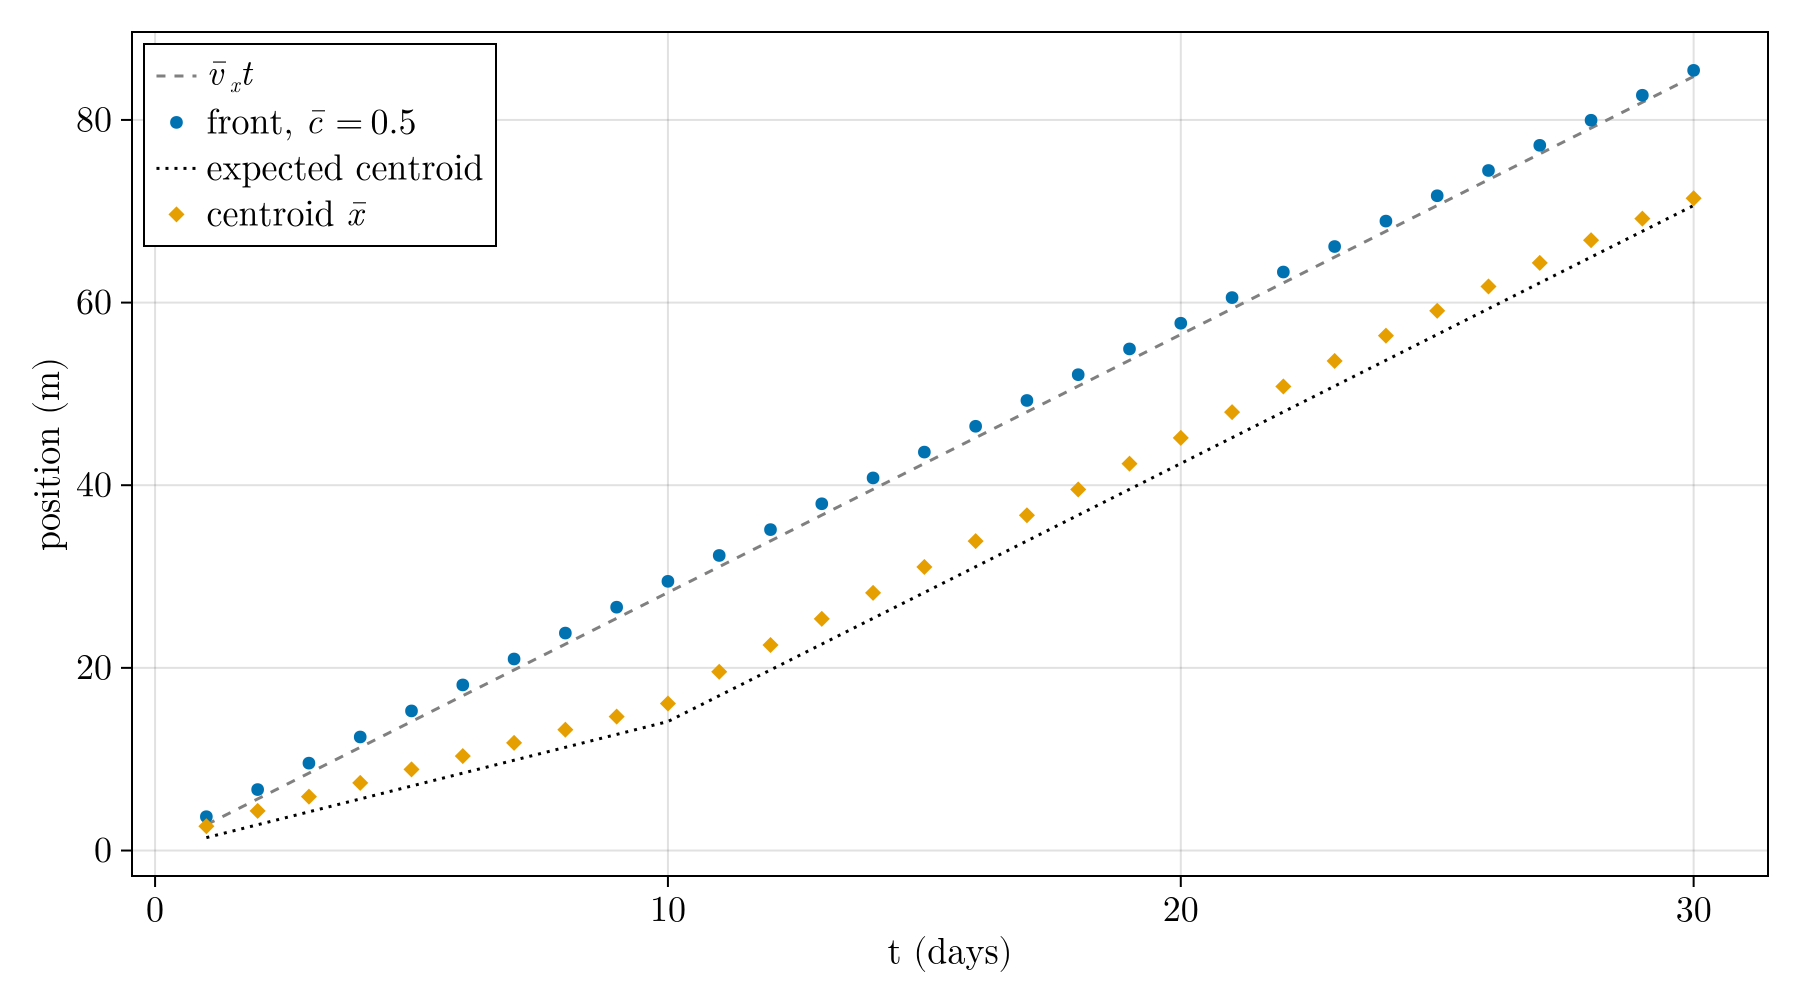
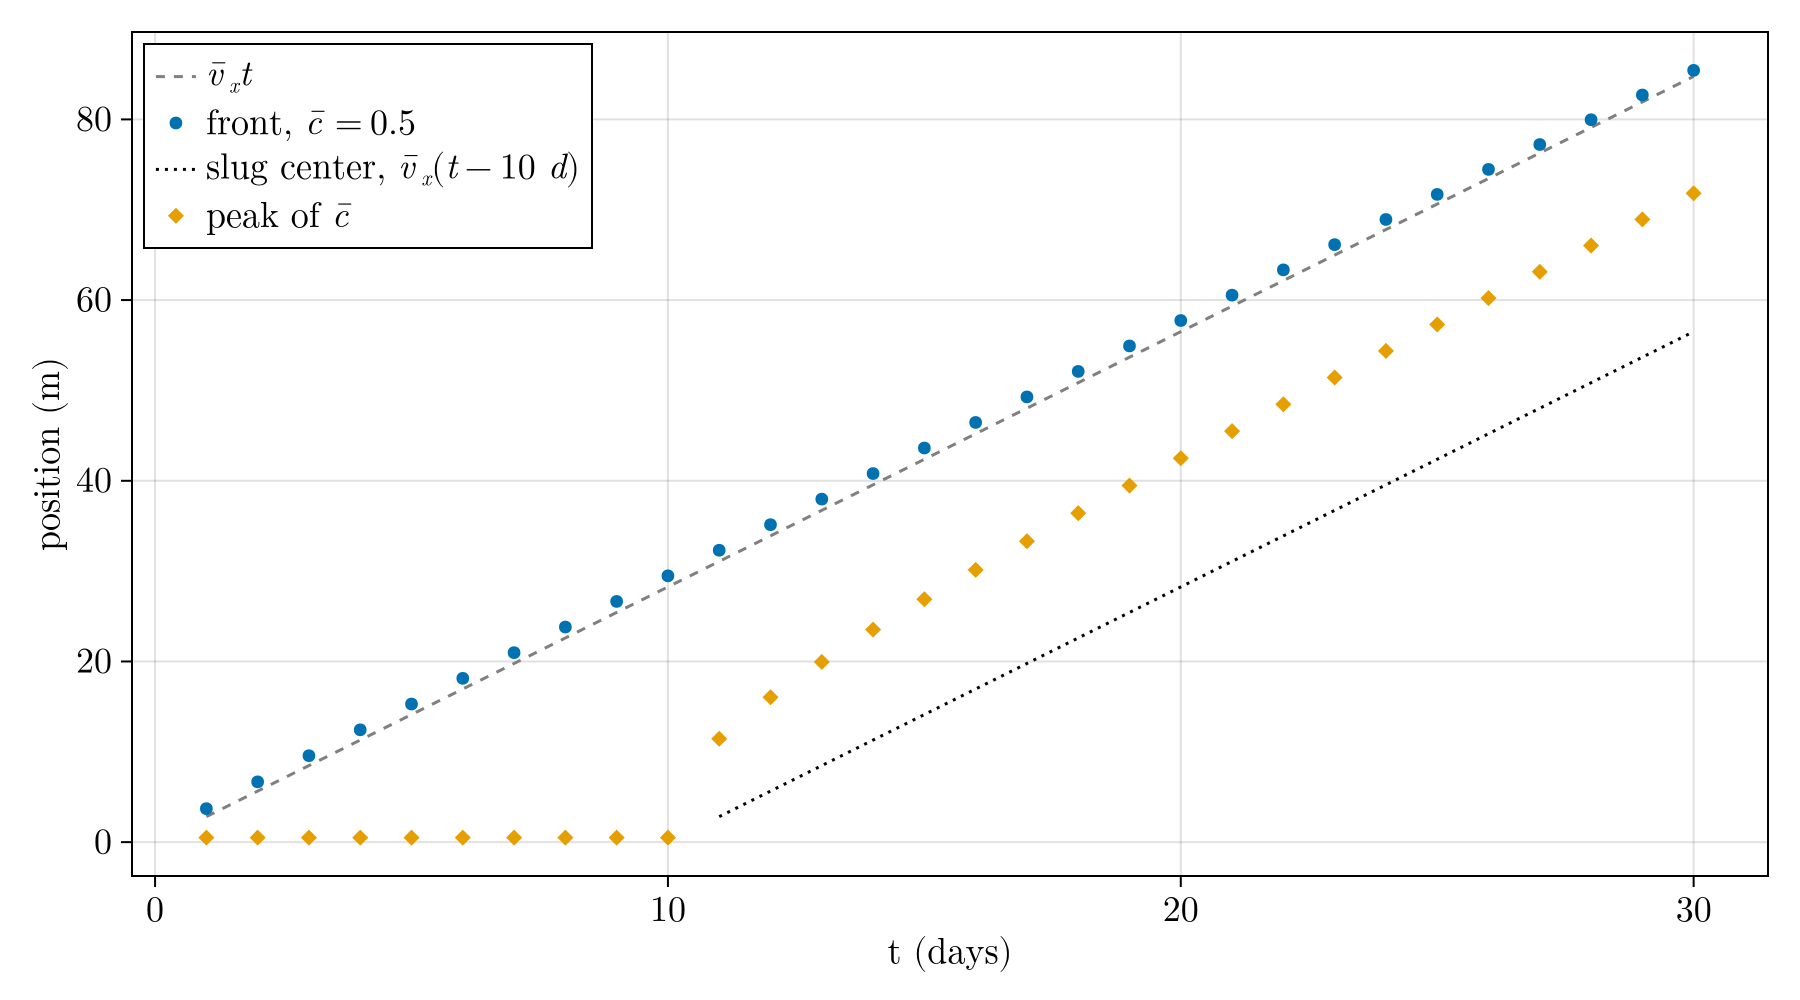
Finalize hw5

diff --git a/h5_writeup.md b/h5_writeup.md
@@ -14,71 +14,93 @@ Code source: [gh:vietbuiminh/hydro-modeling/](https://github.com/vietbuiminh/hyd
 > [hw5-p1.jl](hw5-p1.jl) (flow and transport solvers in [funcs/flow_transport_2d.jl](funcs/flow_transport_2d.jl))
 
 Given:
-- $h_L = 10\ m$, $h_R = 9\ m$ (Dirichlet), top and bottom no-flow,
-- $k = 10^{-10}\ m^2$ (homogeneous) $\implies K = \frac{\rho g k}{\mu} = 9.81\times10^{-4}\ m/s$,
-- $n_x = 100$, $n_y = 50 \implies \delta x = \delta y = 1\ m$,
+
+- $h_L = 10\ m$, $h_R = 9\ m$ (Dirichlet), no flow top and bottom boundaries,
+
+- $k = 10^{-10}\ m^2$ (homog.) ($\implies K = \frac{\rho g k}{\mu} = 9.81\times10^{-4}\ m/s$),
+
+- $n_x = 100$, $n_y = 50, \delta x = \delta y = 1\ m$,
+
+Assume:  
+
 - $\phi = 0.3$, $D_{diff} = 1.0\times10^{-9}\ m^2/s$, $\alpha = 1.0\ m$,
-- $c = 1$ on the left (inflow) boundary for $t \le 10$ days, $c = 0$ afterward; $\partial c/\partial x = 0$ at the right outlet; zero advective and dispersive flux at the top and bottom.
 
-*Flow.* The steady-state flow is solved with the same TPFA finite-volume scheme as HW4, and the Darcy velocities are kept on every cell face. Because the aquifer is homogeneous, the head drops linearly from 9.995 m (first cell) to 9.005 m (last cell), and the flow is purely in $x$ ($\max|u_y| \approx 10^{-17}\ m/s$, i.e. round-off):
+Initial concentration field:
 
-$$
-u_x = K\frac{h_L - h_R}{L_x} = 9.81\times10^{-4}\cdot\frac{1}{100} = 9.81\times10^{-6}\ m/s
-$$
+- $c = 1$ on the left (inflow) boundary for $t \le 10$ days, $c = 0$ afterward; $\partial c/\partial x = 0$ (concentration-gradient condition) at the right outlet; zero advective and dispersive flux at the top and bottom.
 
-*Transport.* The advective flux on each face is $u\,c$ with $c$ taken from the upwind cell (or $c_{in}$ on the left boundary). The dispersive flux is $\phi D_h \Delta c/\delta$ between the two cell centers, with $D_h$ on interior faces given by the harmonic mean of the two cells. On the inlet face the distance is half a cell. The concentration is advanced with forward Euler, $c^{n+1} = c^n - \frac{\delta t}{\phi\,\delta x\,\delta y}\sum(\text{net outflow})$. The last step before each output time is shortened so the output lands exactly on that time.
+Inside the `hw5-p1.jl`
 
-The pore velocity is uniform, so $D_h = D_{diff} + \alpha|\bar v| = 3.27\times10^{-5}\ m^2/s$ everywhere, and
+```jl
+# physical properties
+ρ = 1000 # water density [kg/m^3]
+μ = 1.0e-3 # dynamic viscosity [Pa s]
+g = 9.81 # gravitational acceleration [m/s^2]
+k = 1.0e-10 # intrinsic permeability [m^2]
 
-$$
-\delta t_{adv} = \frac{0.1\cdot 1}{3.27\times10^{-5}} = 3058\ s, \qquad
-\delta t_{disp} = \frac{0.1}{3.27\times10^{-5}\,(1 + 1)} = 1529\ s
-$$
+ϕ = 0.3 # porosity [-]
+D_diff = 1.0e-9 # molecular diffusion coeff. [m^2/s]
+α = 1.0 # isotropic dispersivity [m]
 
-so dispersion controls the time step: $\delta t = 1529\ s \approx 25$ minutes, which gives about 1700 steps over 30 days.
+# model domain
+Lx = 100 # domain length in x direction [m]
+Ly = 50 # domain length in y direction [m]
+nx = 100 # number of cells in x direction
+ny = 50 # number of cells in y direction
+dx = Lx / nx # = 1 m
+dy = Ly / ny # = 1 m
 
-![Figure 1: Concentration fields at t = 5, 10, 15, 20, 25, and 30 days (homogeneous k)](figures/hw5-p1-concentration.png)
+# boundary conditions
+hL = 10 # left boundary head [m] (Dirichlet)
+hR = 9 # right boundary head [m] (Dirichlet)
+day = 24 * 60 * 60 # [s]
+c_in(t) = t < 10 * day ? 1.0 : 0.0 # inject c = 1 for the first 10 days
+```
+
+The flow solver is the one I wrote for HW4 Problem 3 in [Neumann2D-discretize.jl](Neumann2D-discretize.jl). There, the whole solve sat inside a `for σ in σ_ls` loop over the standard deviations. For this homework I turned that core code into functions in [funcs/flow_transport_2d.jl](funcs/flow_transport_2d.jl). `solve_flow(Kmat, dx, dy, hL, hR)` builds the transmissibility matrix, solves for the head, and returns the Darcy velocities on every cell face. `solve_transport(flow, dx, dy, ϕ, D_diff, α, c_in, tsave)` takes those face velocities and steps the concentration field through time, saving it at the requested times. Problem 1 with the homogeneous $K$.
+
+- Plot two-dimensional concentration fields at t = 5, 10, 15, 20, 25, and 30 days using 
+the same color scale, 0<=c<=1 
+
+![Figure 1: Concentration fields at t = 5, 10, 15, 20, 25, and 30 days (homogeneous k), where color bar is same colorscale 0<=c<=1](figures/hw5-p1-concentration.png)
+
+- Calculate  and  plot  the  transverse-averaged  concentration at the same times. 
 
 ![Figure 2: Transverse-averaged concentration $\bar{c}(x,t)$ at the same times](figures/hw5-p1-cbar.png)
+
+- Compare  the  simulated  plume  travel  speed  with  the  expected  mean  pore  velocity
 
 *Expected mean pore velocity.* From the total inflow at the left boundary,
 
 $$
-\bar u_x = \frac{1}{L_y}\int_0^{L_y} u_x(0,y)\,dy = 9.81\times10^{-6}\ m/s, \qquad
+\bar u_x = \frac{1}{L_y}\int_0^{L_y} u_x(0,y)\,dy = 9.81\times10^{-6}\ m/s
+$$
+
+$$
 \bar v_x = \frac{\bar u_x}{\phi} = 3.27\times10^{-5}\ m/s = 2.825\ m/day
 $$
 
-To measure how fast the simulated plume moves, I tracked two positions from $\bar c(x,t)$ every day (Figure 3):
+As seen in figure 2, to measure how fast the simulated plume moves, I can track the top of the curve and how the max position shift every day (Figure 3):
+
 - the leading front, where $\bar c = 0.5$, which should sit at $\bar v_x t$;
-- the plume centroid $\bar x = \sum x_i \bar c_i / \sum \bar c_i$. For a 10-day slug this should be $\bar v_x t/2$ during injection and $\bar v_x (t - 5\ \text{days})$ afterward (the middle of the slug).
 
-![Figure 3: Simulated front and centroid positions compared with the mean pore velocity](figures/hw5-p1-plume-position.png)
+- the peak (maximum) of $\bar c$. During injection the peak stays at the inlet, where $\bar c = 1$. After injection stops, the peak should move with the center of the 10day slug, $\bar v_x (t - 10\ \text{days})$.
 
-| t (days) | front, $\bar c = 0.5$ (m) | $\bar v_x t$ (m) | centroid $\bar x$ (m) | expected $\bar x$ (m) | peak $\bar c$ |
-|---|---|---|---|---|---|
-| 5  | 15.29 | 14.13 | 8.88  | 7.06  | 0.999 |
-| 10 | 29.48 | 28.25 | 16.10 | 14.13 | 1.000 |
-| 15 | 43.63 | 42.38 | 31.05 | 28.25 | 0.907 |
-| 20 | 57.74 | 56.51 | 45.18 | 42.38 | 0.815 |
-| 25 | 71.70 | 70.63 | 59.10 | 56.51 | 0.742 |
-| 30 | 85.43 | 84.76 | 71.42 | 70.63 | 0.684 |
+![Figure 3: Simulated front and peak positions compared with the mean pore velocity](figures/hw5-p1-plume-position.png)
 
-Simulated plume speeds:
-- front, days 5–20: $2.830\ m/day$
-- centroid, days 12–22 (after injection stops and before the plume reaches the outlet): $2.831\ m/day$
+Since we can see the track lines and scatter dot from both paralell after passing day 10th, the speed the simulated can be averaged to be similar with the expected mean pore velocity $2.825\ m/day$
 
-Both are within 0.2% of $\bar v_x = 2.825\ m/day$.
+- Does the plume remain uniform in the transverse direction?
 
-The front stays about 1.2 m ahead of $\bar v_x t$ and the centroid about 2.8 m ahead of its expected position. These are constant offsets, not a difference in speed, and they come from dispersion at the inlet. During injection, solute also enters by dispersion through the fixed-concentration ($c = 1$) inlet, on top of the advective flux $u c_{in}$. By day 10 the solute mass in the domain is 4.7% more than the advective input $\bar u_x L_y \cdot 10\ \text{days}$. After injection stops, some solute at the tail disperses back out through the inlet, and the mass returns to 1.000 of the advective input. Both effects push the solute mass forward. After about day 23 the mass in the domain starts to drop as the leading edge leaves through the outlet (0.944 of the input remains at day 30). This also pulls the centroid back toward its expected value at late times.
+Yes because every column of Figure 1 has a single concentration. With homogeneous $k$ and no-flow top and bottom boundaries, $u_y = 0$ everywhere and there is no transverse concentration gradient, so the problem is linear in $x$.
 
-*Questions*
+- Is its movement consistent with the calculated mean pore velocity $\bar v_x$?
 
-- **Does the plume remain uniform in the transverse direction?** Yes. Every column of Figure 1 has a single concentration; the largest difference between any cell and its column average, $\max|c - \bar c|$, is $1.7\times10^{-12}$ (round-off). With homogeneous $k$ and no-flow top and bottom boundaries, $u_y = 0$ everywhere and there is no transverse concentration gradient, so the problem is effectively 1-D in $x$.
+Yes, and the front moves at $2.83\ m/day$, matching $\bar v_x = 2.825\ m/day$ (Figure 3). The plume spreads out as it moves which is dispersivity (Figure 2 as seen in concentration).
 
-- **Is its movement consistent with the calculated mean pore velocity $\bar v_x$?** Yes. The front and the centroid both move at $2.83\ m/day$, matching $\bar v_x = 2.825\ m/day$ (Figure 3). The plume spreads as it moves: the peak $\bar c$ falls from 1.0 to 0.68 by day 30 (Figure 2). The physical dispersivity ($\alpha = 1\ m$) causes most of this spreading. The first-order upwind scheme adds some numerical dispersion on top; I estimate this at roughly $\delta x/2 \approx 0.5\ m$ of extra dispersivity.
+- Does the numerical solution remain within $0 \le c \le 1$? 
 
-- **Does the numerical solution remain within $0 \le c \le 1$?** Yes. Over all saved times $c_{min} = 0$ (no negative values) and $c_{max} = 0.99996$. The scheme cannot overshoot here: with first-order upwinding and a time step well inside both limits (Courant number $\bar v\,\delta t/\delta x = 0.05$, and $D_h\,\delta t/\delta x^2 = 0.05$ in each direction), each new concentration is a weighted average of the old values in the cell and its neighbours, with non-negative weights.
-
+Yes. Over all saved times $c_{min} = 0$ (no negative values) and $c_{max} = 0.99996$.
 
 **Problem 2**
 
@@ -90,63 +112,56 @@ $$
 Y = \frac{\log_{10}k + 10}{1}, \qquad \log_{10}k = -10 + \sigma_{\log_{10}k}\,Y, \qquad \sigma_{\log_{10}k} = 0.1,\ 0.5,\ 1,\ 2
 $$
 
-The same $Y$ is used for all four runs, so only the contrast changes (Figure 4). Everything else is the same as Problem 1: Dirichlet heads $h_L = 10\ m$ and $h_R = 9\ m$, $c = 1$ injected at the left boundary for 10 days, zero-gradient outlet, and no-flux top and bottom. Because $D_h = D_{diff} + \alpha|\bar v|$, the time step shrinks as the fastest cell gets faster.
+- Plot two-dimensional concentration fields at t = 5, 10, 15, 20, 25, and 30 days using the same color scale, 
 
-| $\sigma_{\log_{10}k}$ | $K$ range (m/s) | $\bar v_x$ (m/day) | $\max\lvert\bar v\rvert$ (m/day) | $\delta t$ (s) |
-|---|---|---|---|---|
-| 0.1 | $4.2\times10^{-4}$ – $1.8\times10^{-3}$ | 2.84 | 4.40 | 983 |
-| 0.5 | $1.4\times10^{-5}$ – $2.2\times10^{-2}$ | 3.10 | 16.6 | 260 |
-| 1   | $2.1\times10^{-7}$ – $5.1\times10^{-1}$ | 3.30 | 36.5 | 118 |
-| 2   | $4.7\times10^{-11}$ – $2.6\times10^{2}$ | 3.09 | 65.9 | 66 |
+![Figure 4: Concentration fields, $\sigma_{\log_{10}k} = 0.1, 0.5, 1, 2$](figures/hw5-p2-concentration.png)
 
-Here $\bar v_x = \bar u_x/\phi$ is computed from the total inflow at the left boundary, as in Problem 1. The mean of $\log_{10}k$ is the same in all four fields, and the mean pore velocity changes by only about 15%, even though $K$ spans 13 orders of magnitude at $\sigma_{\log_{10}k} = 2$.
+- Calculate and plot the transverse-averaged concentration
 
-![Figure 4: $\log_{10}k$ fields for the four heterogeneity levels (same color scale)](figures/hw5-p2-log10k.png)
+![Figure 5: $\log_{10}k$ fields on the same color scale (top) and transverse-averaged concentration $\bar{c}(x,t)$ at t = 5–30 days (bottom)](figures/hw5-p2-log10k-cbar.png)
 
-![Figure 5: Concentration fields, $\sigma_{\log_{10}k} = 0.1$](figures/hw5-p2-concentration-sigma0.1.png)
+- At every saved time, calculate the longitudinal centroid ($\bar{x}$) and the longitudinal variance ($\sigma_{x}^2$)
 
-![Figure 6: Concentration fields, $\sigma_{\log_{10}k} = 0.5$](figures/hw5-p2-concentration-sigma0.5.png)
+```jl
+centroid(c) = sum(X .* c) / sum(c)
+variance(c) = sqrt(sum((X .- centroid(c)) .^ 2 .* c) / sum(c))
+```
 
-![Figure 7: Concentration fields, $\sigma_{\log_{10}k} = 1$](figures/hw5-p2-concentration-sigma1.0.png)
+- How does increasing permeability heterogeneity change the geometry of the solute plume?
 
-![Figure 8: Concentration fields, $\sigma_{\log_{10}k} = 2$](figures/hw5-p2-concentration-sigma2.0.png)
+The more heterogeneous the field, the less uniform the plume as seen in Figure 5.
 
-![Figure 9: Transverse-averaged concentration $\bar{c}(x,t)$ for the four heterogeneity levels](figures/hw5-p2-cbar.png)
+The $\bar c$ profiles (Figure 4, bottom row) go from a smooth bell shape at 0.1 to a long tail with several peaks at 1 and 2.
 
-*Moments.* $\bar x$ and $\sigma_x$ are computed from $\bar c(x,t)$ with the formulas in the assignment, every day from day 1 to day 30. The table also lists the solute mass still in the domain, divided by the mass that entered with the flow ($\bar u_x L_y \cdot 10$ days). Once part of the plume has left through the outlet, $\bar x$ and $\sigma_x$ describe only what remains.
+- Does the plume centroid $\bar x$ move faster or slower as $\sigma_{\log_{10}k}$ increases?
 
-| t (days) | $\bar x$ (m) 0.1 / 0.5 / 1 / 2 | $\sigma_x$ (m) 0.1 / 0.5 / 1 / 2 | mass in domain 0.1 / 0.5 / 1 / 2 |
-|---|---|---|---|
-| 5  | 9.2 / 13.5 / 19.3 / 28.2  | 6.5 / 10.3 / 15.0 / 21.1  | 0.55 / 0.54 / 0.53 / 0.52 |
-| 10 | 16.5 / 23.8 / 33.0 / 42.7 | 11.0 / 17.3 / 23.3 / 27.1 | 1.05 / 1.04 / 1.03 / 0.98 |
-| 15 | 31.7 / 43.2 / 53.6 / 60.8 | 12.8 / 20.7 / 23.8 / 24.7 | 1.00 / 1.00 / 0.95 / 0.77 |
-| 20 | 45.9 / 57.0 / 61.9 / 63.1 | 14.8 / 23.1 / 24.5 / 26.2 | 1.00 / 0.97 / 0.79 / 0.49 |
-| 25 | 59.7 / 65.1 / 64.1 / 61.3 | 16.0 / 23.8 / 24.7 / 27.3 | 0.99 / 0.84 / 0.58 / 0.34 |
-| 30 | 71.3 / 68.3 / 64.4 / 59.6 | 15.5 / 24.2 / 24.8 / 27.5 | 0.93 / 0.64 / 0.42 / 0.26 |
+Faster. In Figure 6 (left), the curve gets steeper as $\sigma_{\log_{10}k}$ increases: $\bar x$ reaches 50 m after about 21 days for 0.1, but after only about 11 days for 2. 
 
-![Figure 10: Centroid $\bar x$ through time (left) and longitudinal spread $\sigma_x$ against the centroid (right); the dashed line marks $\bar x = 50\ m$](figures/hw5-p2-moments.png)
+In Figure 5, most of the solute rides the fast high-$k$ channels.
 
-$\sigma_x$ at $\bar x = 50\ m$, interpolated linearly between the two saved days on either side:
+At late times the curves for 1 and 2 flatten out, and the one for 2 even drops. The plume isn't slowing down. Its fast front has already left through the outlet (Figure 5, bottom rows), so $\bar x$ only measures the slow solute left behind.
 
-| $\sigma_{\log_{10}k}$ | time to reach $\bar x = 50\ m$ (days) | $\sigma_x$ at $\bar x = 50\ m$ (m) | mass still in domain |
-|---|---|---|---|
-| 0.1 | 21.5 | 15.3 | 0.999 |
-| 0.5 | 17.2 | 22.0 | 0.994 |
-| 1   | 13.8 | 23.6 | 0.975 |
-| 2   | 11.3 | 25.6 | 0.931 |
+- Plot $\sigma_x$ as a function of $\bar x$, and the comparison at $\bar x = 50\ m$.
 
-*Questions*
 
-- **How does increasing permeability heterogeneity change the geometry of the solute plume?** At $\sigma_{\log_{10}k} = 0.1$ (Figure 5) the plume still looks like the homogeneous case in Problem 1. It is a single band across the whole width, and its front is only slightly tilted and wavy. At $\sigma_{\log_{10}k} = 0.5$ (Figure 6) the front becomes fingered. Solute moves ahead along the higher-$k$ lower half of the domain ($y \approx 25$–$50\ m$), and the low-$k$ zone near the top-left inlet lags behind. At $\sigma_{\log_{10}k} = 1$ (Figure 7) the plume breaks into a few channels, with low-$k$ zones that the solute flows around and that stay nearly clean. At $\sigma_{\log_{10}k} = 2$ (Figure 8) almost all the solute travels in one high-$k$ channel. It enters at $y \approx 30$–$50\ m$, passes through the high-$k$ zone near $(60, 30)$ and leaves at the upper right. By day 10 it already reaches the outlet while most of the domain has never seen solute. The $\bar c$ profiles (Figure 9) show the same change. They go from smooth bell shapes at 0.1 to a long tail and several peaks at 1 and 2, with solute spread over the whole length of the domain.
+![Figure 6: Centroid $\bar x$ through time (left) and longitudinal spread $\sigma_x$ against the centroid (right); the dashed line marks $\bar x = 50\ m$](figures/hw5-p2-moments.png)
 
-- **Does the plume centroid $\bar x$ move faster or slower as $\sigma_{\log_{10}k}$ increases?** Faster, at least while the plume is still inside the domain. At day 5, $\bar x$ = 9.2, 13.5, 19.3 and 28.2 m, and the time to reach $\bar x = 50\ m$ falls from 21.5 to 11.3 days. This happens even though $\bar v_x$ barely changes (2.8–3.3 m/day). The reason is that solute is injected by flux, so most of it enters where the inflow is fastest. The flux-weighted inlet pore velocity $\sum u_L^2 / (\phi \sum u_L)$ rises from 3.0 to 6.5, 14.2 and 29.8 m/day, and most of the solute mass rides the fast channels. At late times $\bar x$ stops growing for $\sigma_{\log_{10}k} \ge 1$, and even moves back for 2 (Figure 10, left). This is not the plume slowing down. The leading part has left through the outlet (only 26% of the mass remains at day 30 for $\sigma_{\log_{10}k} = 2$), so the centroid only describes the slow material left behind.
+$\sigma_x$ at $\bar x = 50\ m$, interpolated linearly between the two saved days on either side.
 
-- **$\sigma_x$ as a function of $\bar x$, and the comparison at $\bar x = 50\ m$.** See Figure 10 (right) and the table above: $\sigma_x(\bar x = 50\ m)$ = 15.3, 22.0, 23.6 and 25.6 m. Up to $\bar x \approx 10$–$15\ m$ all four curves follow nearly the same line. During injection the plume is still attached to the inlet, so $\sigma_x$ mostly reflects the growing length of the slug. Once injection stops, the curves separate.
+Figure 6 right, all four curves follow nearly the same line during injection where the plume is still attached to the inlet, so $\sigma_x$ mostly reflects the growing length of the slug. 
 
-- **How does longitudinal spreading, $\sigma_x$, change with heterogeneity?** $\sigma_x$ increases with heterogeneity. The biggest jump is from 0.1 to 0.5 (15 → 22 m at $\bar x = 50\ m$); after that it increases more slowly (24 and 26 m). The slowdown is partly real and partly an artifact of the finite domain. The domain is only 100 m long, so once the fast part of a strongly heterogeneous plume exits it no longer counts toward $\sigma_x$. At $\bar x = 50\ m$, 7% of the mass has already left for $\sigma_{\log_{10}k} = 2$, so its $\sigma_x$ is an underestimate. In an infinitely long domain the difference between the four levels would be larger.
+Once injection stops after day 10 (Figure 6 right where the lines following different curve trend) the curves separate in the leading Figure 6 (right).
 
-- **Why is comparing $\sigma_x$ at the same centroid location more informative than at the same elapsed time?** Spreading grows with the distance the plume has traveled. Because the centroid moves faster as heterogeneity increases, at the same elapsed time the more heterogeneous plumes have simply traveled farther. A same-time comparison mixes "spreads more per meter traveled" with "has traveled more meters". At day 10, for example, the plume for $\sigma_{\log_{10}k} = 2$ has a centroid at 42.7 m, while the one for 0.1 is only at 16.5 m. At later times the comparison gets worse, because the fast plumes have lost mass through the outlet and their $\sigma_x$ is truncated. Comparing at the same $\bar x$ puts every plume at the same travel distance, so the difference in $\sigma_x$ reflects only how heterogeneity spreads the solute.
+- How does longitudinal spreading, $\sigma_x$, change with heterogeneity?
 
-- **At which heterogeneity level does preferential transport become clearly visible?** At $\sigma_{\log_{10}k} = 0.5$. At 0.1 the front is only slightly tilted, and $\bar c(x,t)$ keeps the same smooth, symmetric shape as in the homogeneous case. At 0.5 the 2-D fields already show solute running ahead along the high-$k$ lower half, and the $\bar c$ profile at day 5 has a long straight tail instead of an S-shaped front. $\sigma_x$ also has its largest jump between 0.1 and 0.5. At $\sigma_{\log_{10}k} \ge 1$ preferential flow dominates: a few channels carry most of the solute, some zones are bypassed, and solute reaches the outlet before injection ends (for 2).
+$\sigma_x$ increases with heterogeneity: in Figure 6 (right), the curve sits higher as $\sigma_{\log_{10}k}$ increases. At $\bar x = 50\ m$ it goes 15 to 26 m. The biggest jump is from 0.1 to 0.5. After that the curves bunch together, partly because the fastest solute has already left through the outlet and no longer counts toward $\sigma_x$.
 
-In all four runs the concentration stays within $0 \le c \le 1$. The smallest value is $0$ (a few cells far from the plume hold values around $10^{-90}$, still positive), and the largest is $\le 1.000$.
+- Why is comparing $\sigma_x$ at the same centroid location more informative than at the same elapsed time?
+
+A plume spreads more the farther it travels where the complexity of it spread depending on the heterogenity. In Figure 6 (left), at the same time the more heterogeneous plumes have already traveled farther, because their flow becomes 2D and channelled instead of 1D in $x$. Comparing at the same $\bar x$ puts every plume at the same travel distance, so the difference in $\sigma_x$ comes from heterogeneity alone.
+
+- At which heterogeneity level does preferential transport become clearly visible?
+
+At $\sigma_{\log_{10}k} = 0.5$. In Figure 4, the 0.1 plume is still one even band, but at 0.5 the solute clearly runs ahead along the high-$k$ lower half. In Figure 5 (bottom row), $\bar c$ also loses its smooth bell shape at 0.5. From 1 upward, a few channels carry most of the solute.
+
+In all four runs the concentration stays within $0 \le c \le 1$.
